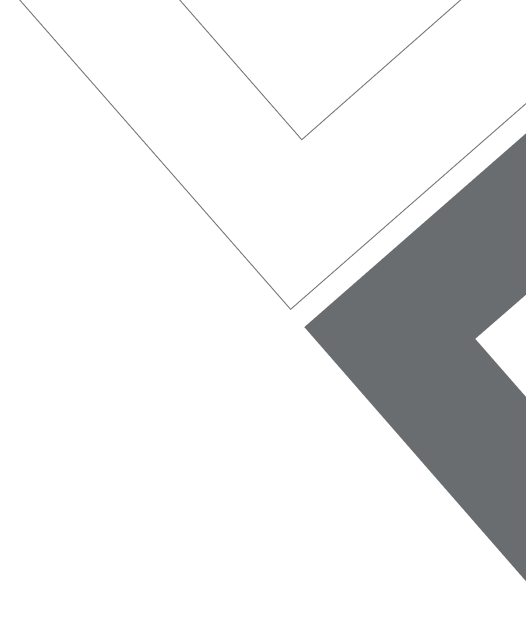
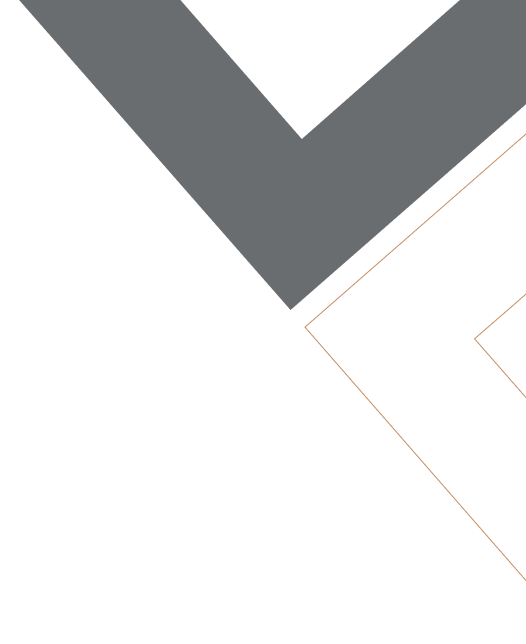
w

diff --git a/src/scss/aboutme-page-scss/about-main-section.scss b/src/scss/aboutme-page-scss/about-main-section.scss
@@ -75,148 +75,46 @@
     margin-bottom: 8px;
 }
 
+@media only screen and (max-width: 1280px) {
+    .aboutme-main-section {
+        background-image: url(../../img/aboutme-page-img/aboutme-main-section__bg_1280.png);
+        background-repeat: no-repeat;
+        background-position: right top;
+        margin-bottom: 0px !important;
+    }
 
+    .aboutme-main-section__right-block {
+        padding-bottom: 40px;
+    }
 
+    .aboutme-man-section__title {
+        font-size: 34px;
+    }
 
+    .aboutme-ms-title__discr {
+        font-size: 20px;
+        margin-bottom: 20px;
+    }
 
+    .aboutme-man-section__discr {
+        width: 405px;
+        font-size: 19px;
+        margin-bottom: 18px;
+    }
 
+    .specialization-list__title {
+        font-size: 20px;
+        margin-bottom: 14px;
+    }
 
-// @media only screen and (max-width: 1680px) {
-//     .main-section__left-block {
-//         padding-top: 220px;
-//     }
+    .specialization-list__item {
+        font-size: 18px;
+        background-image: url(../../img/aboutme-page-img/item__img.png);
+        padding-left: 30px;
+    }
+}
 
-//     .main-section {
-//         height: 1050px;
-//         background-image: url(../../img/aboutme-page-img/ellipse__top_1680.png);
-//     }
-//     .man-section__title {
-//         font-size: 60px;
-//         line-height: 76px;
-//     }
-
-//     .ms-title__discr {
-//         font-size: 30px;
-//         line-height: 38px;
-//     }
-
-//     .man-section__discr {
-//         width: 812px;
-//         margin-bottom: 43px;
-//         font-size: 34px;
-//         line-height: 43px;
-//     }
-
-//     .specialization-list__item {
-//         font-size: 24px;
-//         line-height: 34px;
-//         padding-left: 48px;
-//     }
-
-//     .specialization-list__item:not(:last-of-type) {
-//         margin-bottom: 8px;
-//     }
-
-//     .contact-block {
-//         padding-right: 40px;
-//     }
-// }
-
-// @media only screen and (max-width: 1440px) {
-//     .main-section__left-block {
-//         padding-top: 180px;
-//     }
-
-//     .man-section__title {
-//         font-size: 52px;
-//         line-height: 66px;
-//     }
-
-//     .main-section {
-//         height: 900px;
-//         background-image: url(../../img/aboutme-page-img/ellipse__top_1440.png);
-//     }
-
-//     .man-section__title {
-//         font-size: 52px;
-//         line-height: 66px;
-//     }
-
-//     .ms-title__discr {
-//         font-size: 28px;
-//         line-height: 35px;
-//     }
-
-//     .man-section__discr {
-//         width: 712px;
-//         font-size: 30px;
-//         line-height: 38px;
-//     }
-// }
-
-// @media only screen and (max-width: 1280px) {
-//     .main-section {
-//         height: 720px;
-//         background-image: url(../../img/aboutme-page-img/ellipse__top_1280.png);
-//     }
-
-//     .contact-block__icon:not(:last-of-type) {
-//         margin-right: 18px;
-//     }
-
-//     .main-section__left-block {
-//         padding-top: 140px;
-//     }
-
-//     .man-section__title {
-//         font-size: 44px;
-//         line-height: 56px;
-//     }
-
-//     .ms-title__discr {
-//         margin-bottom: 24px;
-//         font-size: 20px;
-//         line-height: 25px;
-//     }
-
-//     .man-section__discr {
-//         width: 621px;
-//         margin-bottom: 24px;
-//         font-size: 26px;
-//         line-height: 33px;
-//     }
-
-//     .specialization-list__title {
-//         margin-bottom: 12px;
-//         font-size: 20px;
-//         line-height: 25px;
-//     }
-
-//     .specialization-list__item {
-//         font-size: 18px;
-//         line-height: 23px;
-//         background-image: url(../../img/aboutme-page-img/item__img_1280.png);
-//         padding-left: 40px;
-//     }
-
-//     .specialization-list__item:not(:last-of-type) {
-//         margin-bottom: 8px;
-//     }
-
-//     .man-section__img {
-//         margin-bottom: 32px;
-//     }
-
-//     .contact-block {
-//         padding-right: 0px;
-//     }
-
-//     .contact-block__icon:not(:last-of-type) {
-//         margin-right: 18px;
-//     }
-// }
-
-// @media only screen and (max-width: 1050px) {
+// @media only screen and (max-width: 1024px) {
 //     .main-section {
 //         height: 720px;
 //         background-image: url(../../img/aboutme-page-img/ellipse__top_1024.png);
@@ -230,7 +128,7 @@
 //     }
 // }
 
-// @media only screen and (max-width: 979px) {
+// @media only screen and (max-width: 800px) {
 //     .main-section {
 //         height: 620px;
 //     }
@@ -240,7 +138,7 @@
 //     }
 // }
 
-// @media only screen and (max-width: 924px) {
+// @media only screen and (max-width: 640px) {
 //     .main-section {
 //         height: 480px;
 //         background-image: url(../../img/aboutme-page-img/ellipse__top_800.png);
@@ -297,7 +195,7 @@
 //     }
 // }
 
-// @media only screen and (max-width: 703px) {
+// @media only screen and (max-width: 480px) {
 //     .main-section {
 //         height: 360px;
 //         background-image: none;
@@ -305,33 +203,5 @@
     
 //     .man-section__discr {
 //         width: 320px;
-//     }
-// }
-
-// @media only screen and (max-width: 645px) {
-//     .main-section {
-//         height: 100%;
-//         background-image: none;
-//     }
-
-//     .main-section-container {
-//         display: flex;
-//         flex-direction: column-reverse;
-//     }
-
-//     .man-section__discr {
-//         width: 100%;
-//     }
-
-//     .main-section__left-block {
-//         width: 100%;
-//         padding-top: 40px;
-//         padding-left: 10px;
-//     }
-
-//     .main-section__right-block {
-//         display: flex;
-//         flex-direction: column;
-//         align-items: center;
 //     }
 // }

diff --git a/src/scss/project-style.css b/src/scss/project-style.css
@@ -425,6 +425,38 @@ button {
   margin-bottom: 8px;
 }
 
+@media only screen and (max-width: 1280px) {
+  .aboutme-main-section {
+    background-image: url(../../img/aboutme-page-img/aboutme-main-section__bg_1280.png);
+    background-repeat: no-repeat;
+    background-position: right top;
+    margin-bottom: 0px !important;
+  }
+  .aboutme-main-section__right-block {
+    padding-bottom: 40px;
+  }
+  .aboutme-man-section__title {
+    font-size: 34px;
+  }
+  .aboutme-ms-title__discr {
+    font-size: 20px;
+    margin-bottom: 20px;
+  }
+  .aboutme-man-section__discr {
+    width: 405px;
+    font-size: 19px;
+    margin-bottom: 18px;
+  }
+  .specialization-list__title {
+    font-size: 20px;
+    margin-bottom: 14px;
+  }
+  .specialization-list__item {
+    font-size: 18px;
+    background-image: url(../../img/aboutme-page-img/item__img.png);
+    padding-left: 30px;
+  }
+}
 .about-section {
   margin-bottom: 0px !important;
 }

diff --git a/src/scss/aboutme-page-scss/about-main-section.css b/src/scss/aboutme-page-scss/about-main-section.css
@@ -71,3 +71,36 @@
 .specialization-list__item:not(:last-of-type) {
   margin-bottom: 8px;
 }
+
+@media only screen and (max-width: 1280px) {
+  .aboutme-main-section {
+    background-image: url(../../img/aboutme-page-img/aboutme-main-section__bg_1280.png);
+    background-repeat: no-repeat;
+    background-position: right top;
+    margin-bottom: 0px !important;
+  }
+  .aboutme-main-section__right-block {
+    padding-bottom: 40px;
+  }
+  .aboutme-man-section__title {
+    font-size: 34px;
+  }
+  .aboutme-ms-title__discr {
+    font-size: 20px;
+    margin-bottom: 20px;
+  }
+  .aboutme-man-section__discr {
+    width: 405px;
+    font-size: 19px;
+    margin-bottom: 18px;
+  }
+  .specialization-list__title {
+    font-size: 20px;
+    margin-bottom: 14px;
+  }
+  .specialization-list__item {
+    font-size: 18px;
+    background-image: url(../../img/aboutme-page-img/item__img.png);
+    padding-left: 30px;
+  }
+}

diff --git a/src/scss/project-style.scss b/src/scss/project-style.scss
@@ -406,3 +406,31 @@ button {
 @import 'supply-style.scss';
 @import 'footer.scss';
 
+
+
+
+
+
+
+
+
+
+
+
+
+
+
+
+
+
+
+
+
+
+
+
+
+
+
+
+
